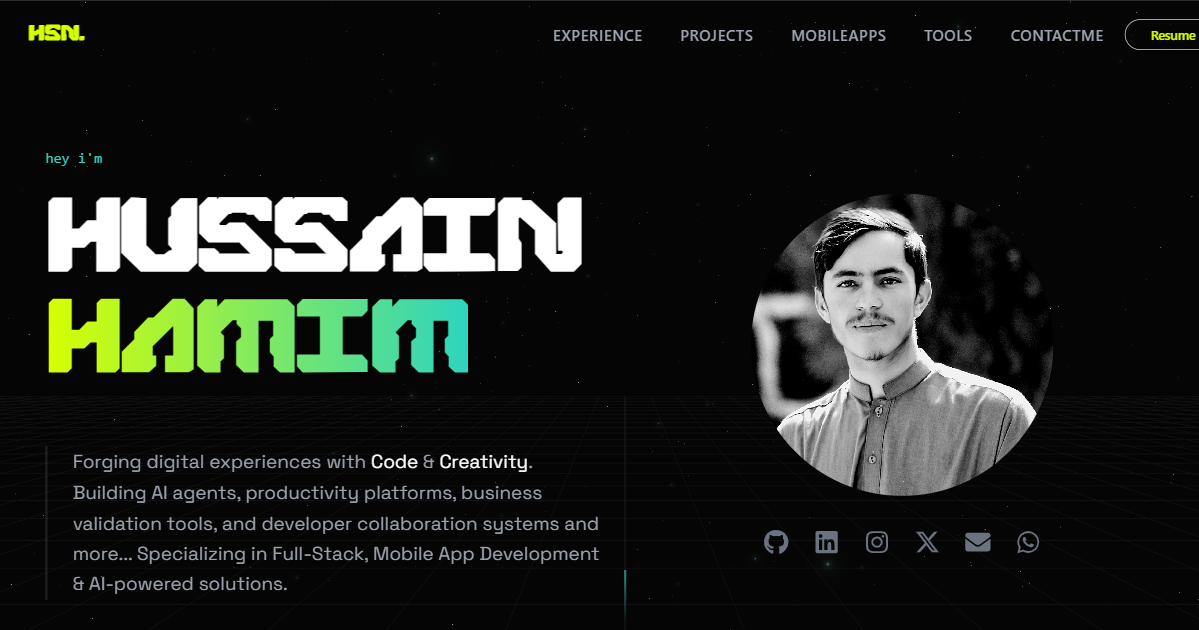
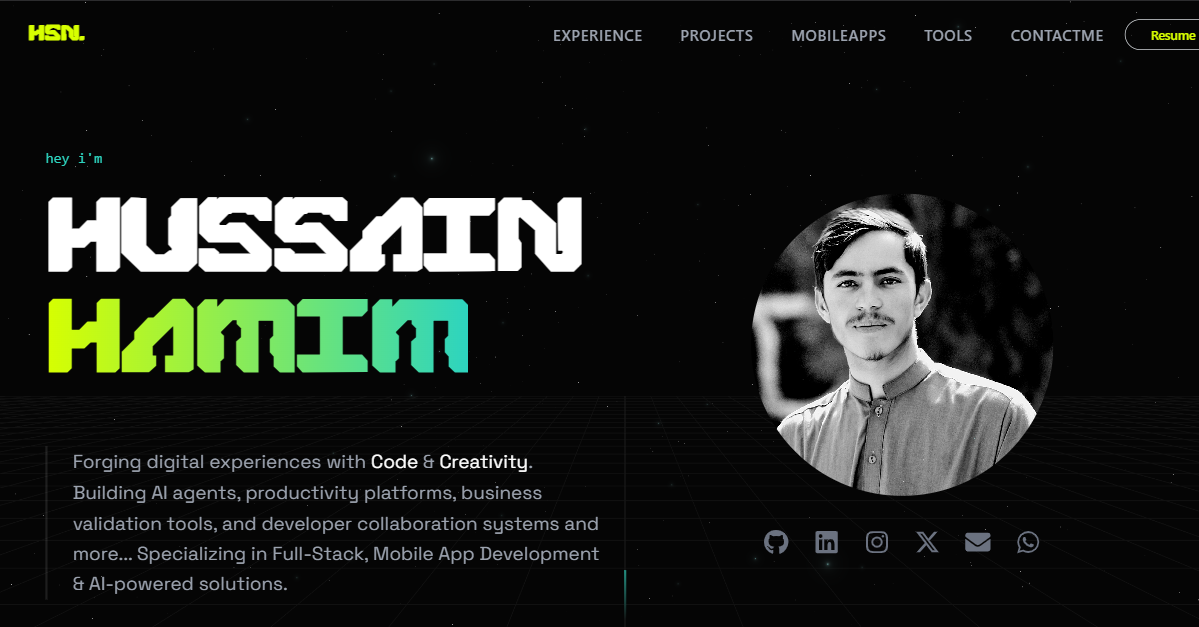
link preview fixeddd

diff --git a/public/index.html b/public/index.html
@@ -52,6 +52,8 @@
 
     <!-- Twitter -->
     <meta name="twitter:card" content="summary_large_image" />
+    <meta name="twitter:site" content="@erencodes" />
+    <meta name="twitter:creator" content="@erencodes" />
     <meta name="twitter:url" content="https://www.hussainhamim.xyz/" />
     <meta name="twitter:title" content="Hussain Hamim - Full-Stack Developer & AI Engineer Portfolio" />
     <meta
@@ -59,8 +61,9 @@
       content="Forging digital experiences with Code & Creativity. Building AI agents, productivity platforms, business validation tools, and developer collaboration systems."
     />
     <meta name="twitter:image" content="https://www.hussainhamim.xyz/landing_screenshot.png" />
+    <meta name="twitter:image:width" content="1199" />
+    <meta name="twitter:image:height" content="627" />
     <meta name="twitter:image:alt" content="Hussain Hamim - Portfolio Landing Section Preview" />
-    <meta name="twitter:creator" content="@erencodes" />
 
     <!-- Additional SEO -->
     <meta name="geo.region" content="US" />

diff --git a/src/components/GitHubContributions.js b/src/components/GitHubContributions.js
@@ -74,7 +74,11 @@ const GitHubContributions = ({ username, dark = false }) => {
               }
             } else {
               const errorData = await response.json();
-              console.warn('GitHub API error:', errorData);
+              if (errorData.message === 'Bad credentials') {
+                console.warn('GitHub token is invalid or not set. Using public API fallback.');
+              } else {
+                console.warn('GitHub API error:', errorData);
+              }
             }
           } catch (error) {
             console.error("Error fetching from GitHub API:", error);
